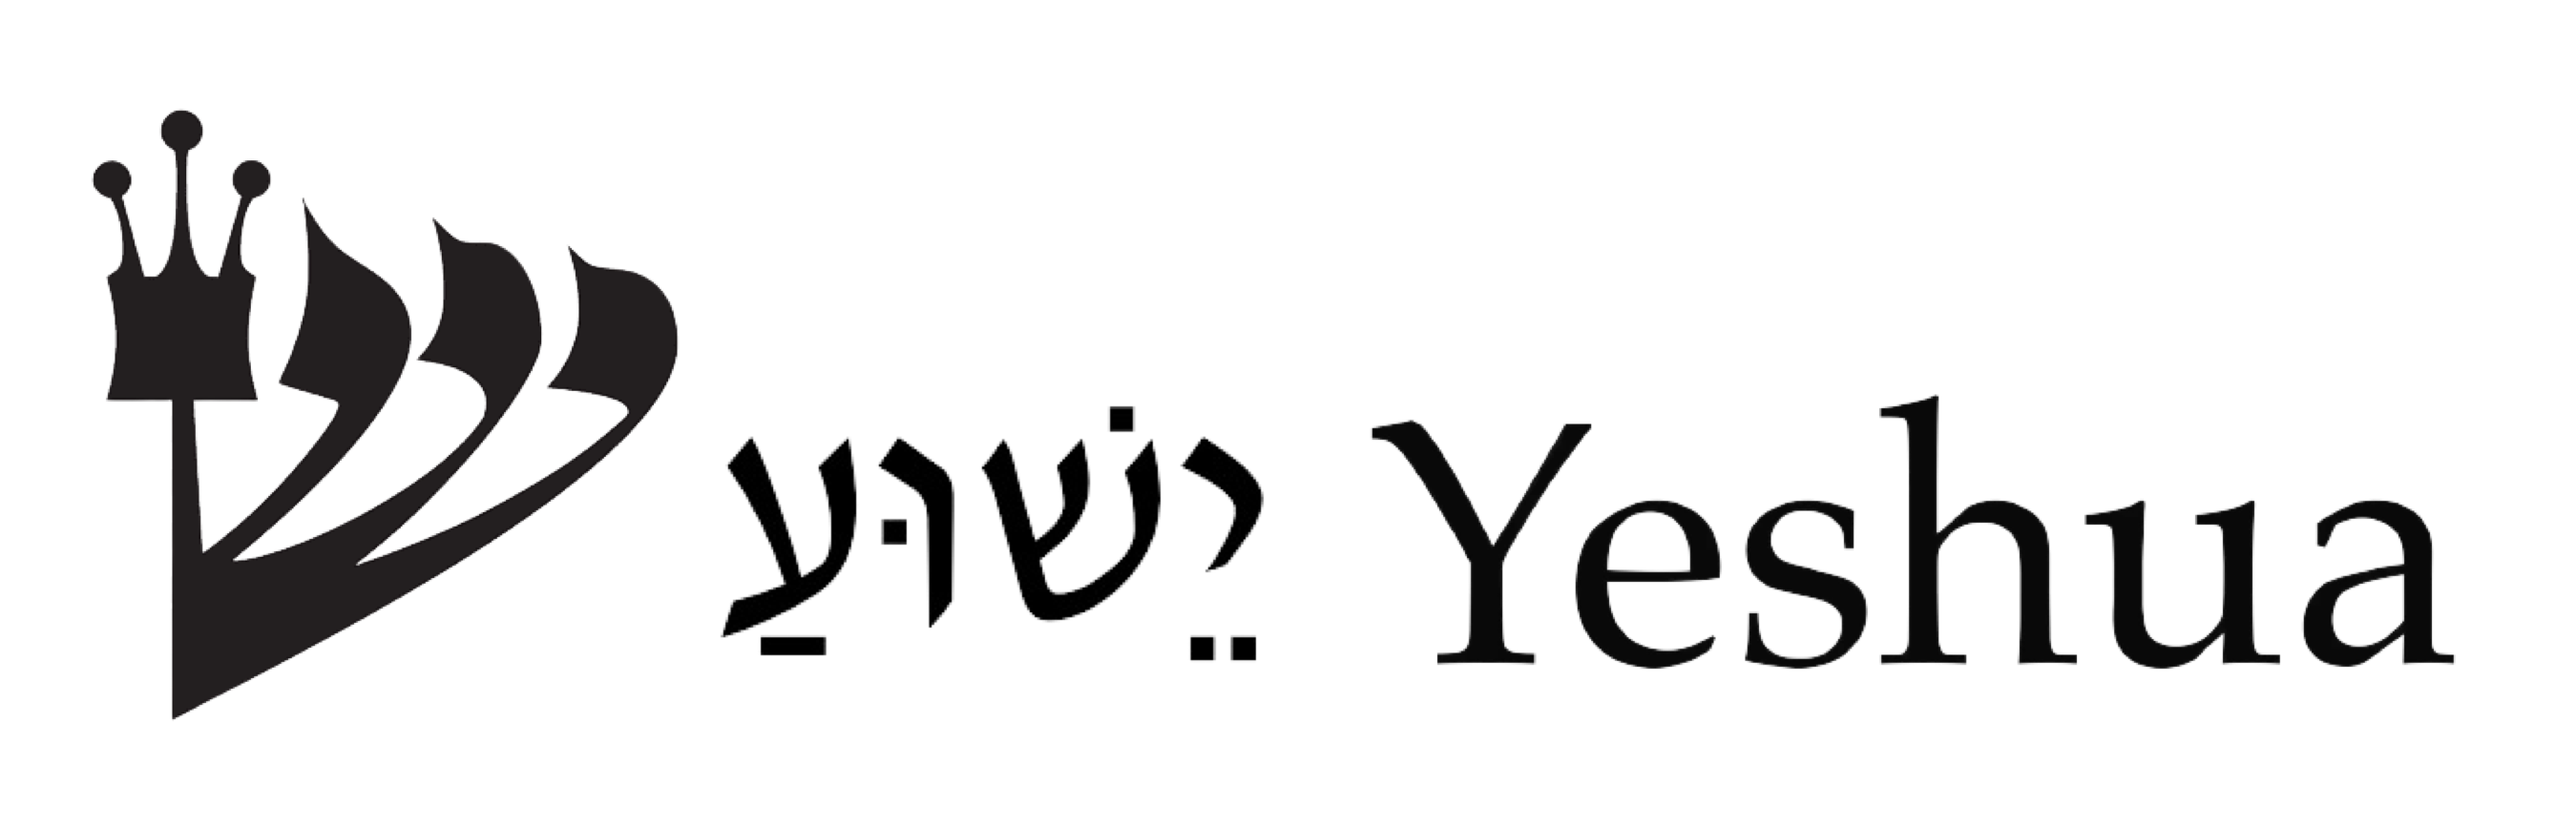
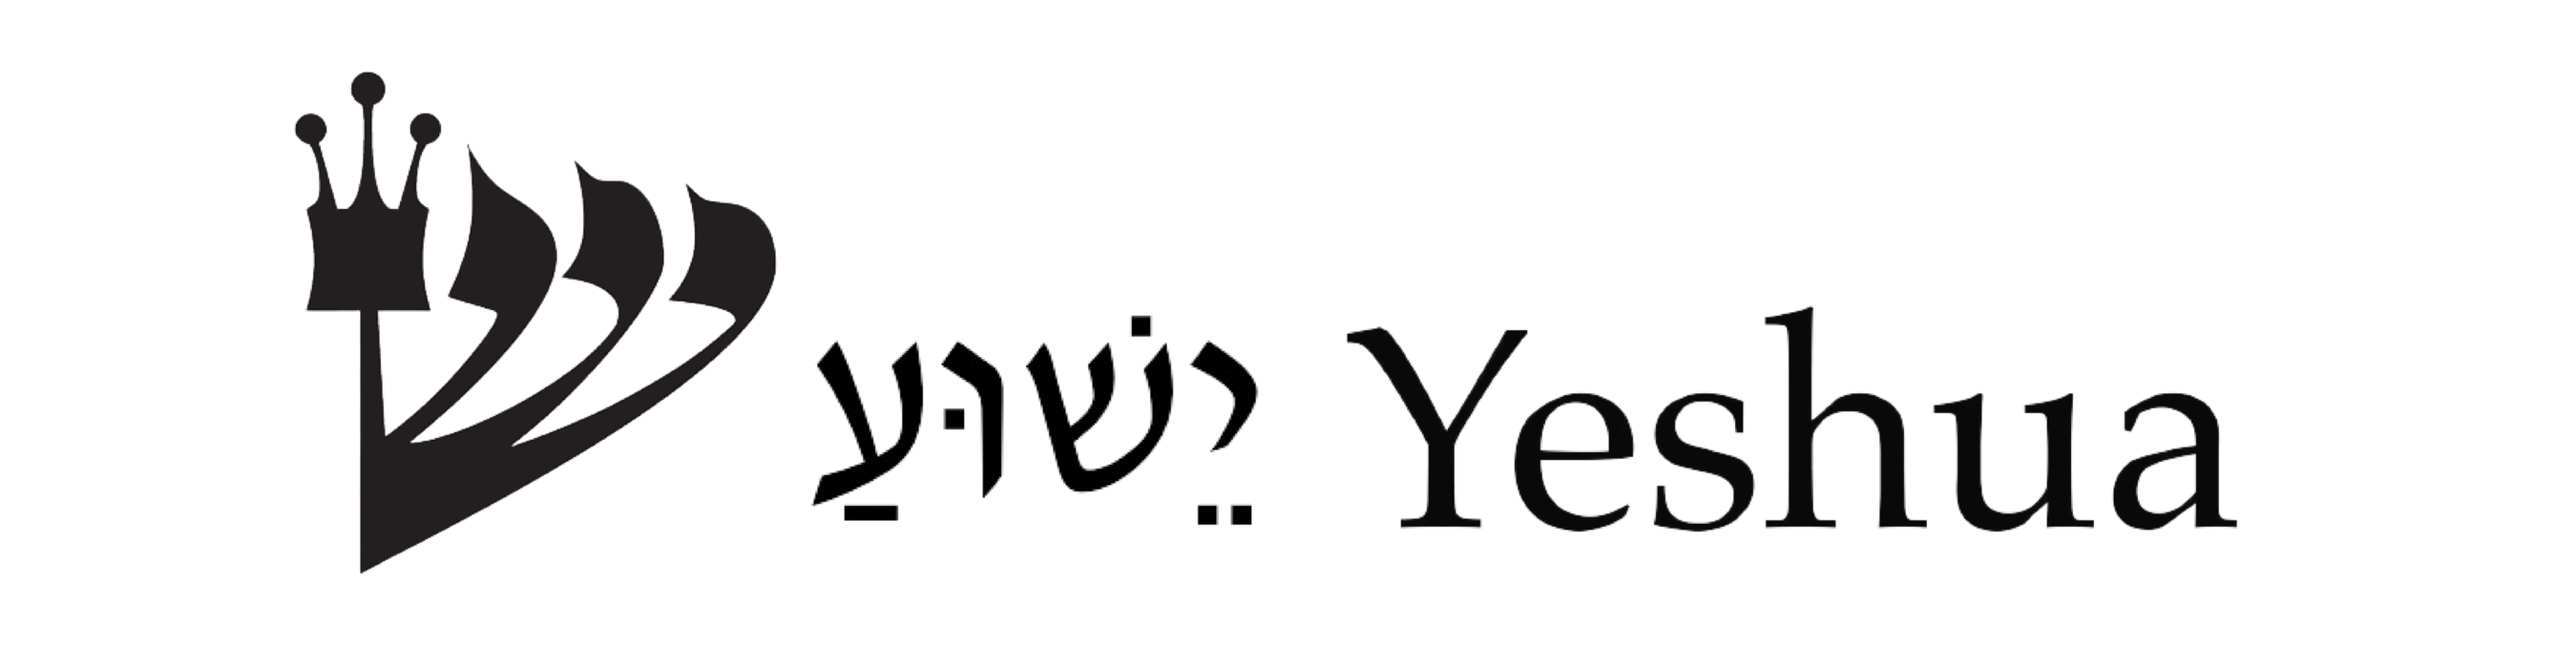
Styling added to the 'King Yeshua' title and HTML title refactored

Changed region(s): [[0.0311, 0.0929, 0.498, 0.8982], [0.5291, 0.4646, 0.9648, 0.8363], [0.4357, 0.7743, 0.498, 0.8053]]

diff --git a/src/index.html b/src/index.html
@@ -10,14 +10,6 @@
 
 <body>
 
-    <!-- King Yeshua title -->
-    <div class="king">
-        <div class="king-letters">
-            <img src="images/King Yeshua.png" class="king-yeshua"
-                alt="Image of King Jesus depicted in English and Hebrew script" />
-        </div>
-    </div>
-
     <!-- navbar- desktop and mobile -->
     <header>
         <div class="header-main">
@@ -53,6 +45,14 @@
             </ul>
         </div>
     </header>
+
+    <!-- King Yeshua title -->
+    <div class="king">
+        <div class="king-letters">
+            <img src="images/King Yeshua.png" class="king-yeshua"
+                alt="Image of King Jesus depicted in English and Hebrew script" />
+        </div>
+    </div>
 
     <!-- carousel -->
     <div class="carousel">

diff --git a/src/style.css b/src/style.css
@@ -134,6 +134,25 @@ body {
   color: var(--red-color);
 }
 
+/* king image */
+.king {
+  display: flex;
+  align-items: center;
+  justify-content: center;
+  background-color: var(--black-color);
+  width: 100%;
+}
+
+.king-letters {
+  text-align: center;
+  filter: invert(74%) sepia(8%) saturate(643%) hue-rotate(228deg) brightness(100%) contrast(90%);
+}
+
+img.king-yeshua {
+  max-width: 75%;
+  width: 100%;
+}
+
 /* carousel */
 .carousel {
   position: relative;
